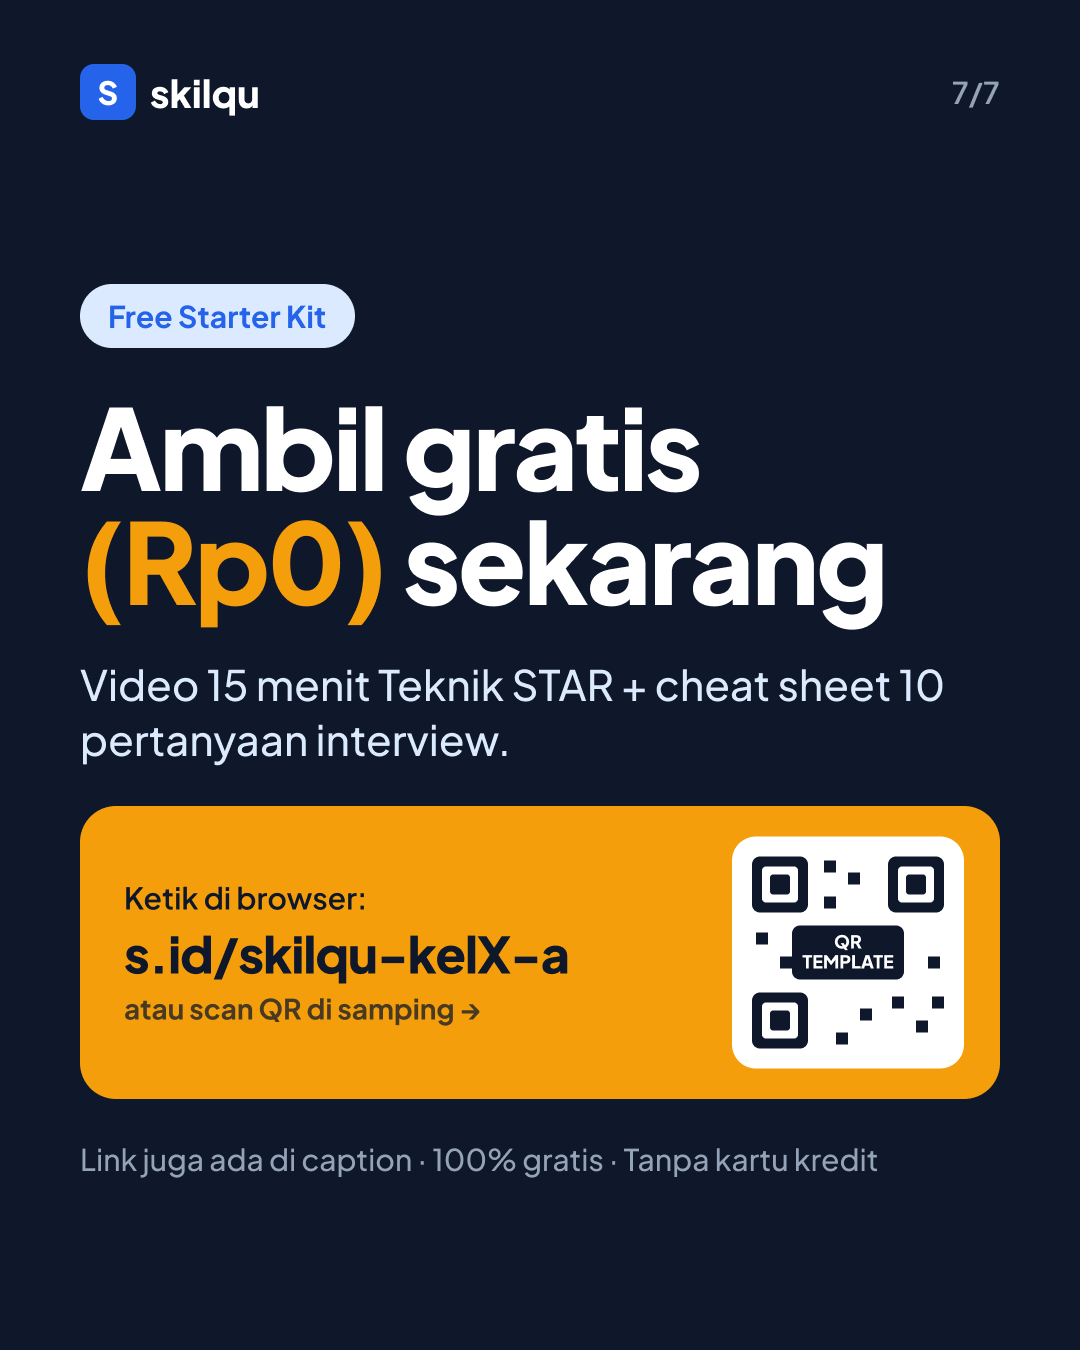
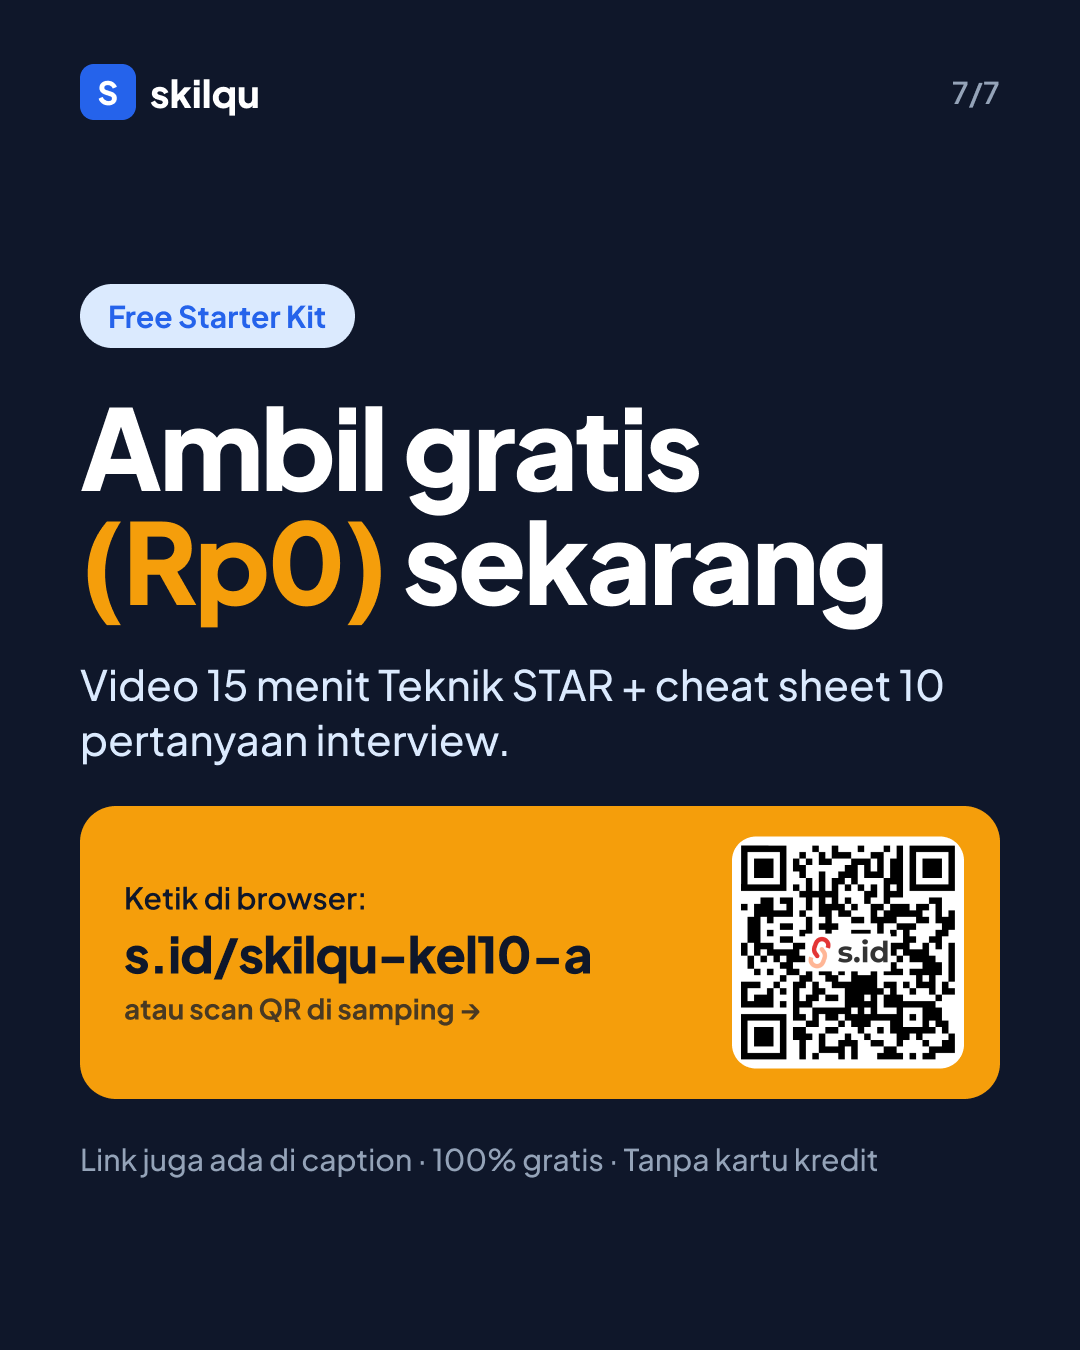
Slide 7: pasang QR s.id kel10 untuk Feed A dan B

Changed region(s): [[0.6722, 0.6222, 0.8861, 0.8089], [0.4278, 0.6844, 0.55, 0.7467]]

diff --git a/Konsep Feed Carousel Modul 3.md b/Konsep Feed Carousel Modul 3.md
@@ -22,8 +22,8 @@ Track C (Interview). 1 carousel, 7 slide, ukuran 1080×1350 (4:5). Dua versi han
 
 | Versi | Tayang | Diamati sampai | Link di postingan |
 |---|---|---|---|
-| A | Rabu, 18 Nov 2026, [19.00] WIB | Jumat, 20 Nov, [19.00] | s.id/skilqu-[kelX]-a |
-| B | Kamis, 19 Nov 2026, [19.00] WIB | Sabtu, 21 Nov, [19.00] | s.id/skilqu-[kelX]-b |
+| A | Rabu, 18 Nov 2026, [19.00] WIB | Jumat, 20 Nov, [19.00] | s.id/skilqu-kel10-a |
+| B | Kamis, 19 Nov 2026, [19.00] WIB | Sabtu, 21 Nov, [19.00] | s.id/skilqu-kel10-b |
 
 Link s.id-nya diarahkan ke:
 - A: `https://skilqu-interview-magang.netlify.app/?utm_source=ig&utm_medium=carousel&utm_content=hook_control_A`
@@ -148,7 +148,7 @@ PNG alternatif ada di `Modul 3 Carousel/Alternatif Cover/`. Kalau cover yang dip
 
 ### Slide 7: CTA
 - Judul: **"Ambil gratis (Rp0) sekarang"**
-- Kotak amber besar: **"Ketik s.id/skilqu-[kelX]-a"** (di versi B: **-b**)
+- Kotak amber besar: **"Ketik s.id/skilqu-kel10-a"** (di versi B: **-b**)
 - Di bawahnya: "Video 15 menit + cheat sheet 10 pertanyaan interview"
 - Baris kecil: "Link juga ada di caption · 100% gratis · Tanpa kartu kredit"
 
@@ -167,11 +167,11 @@ PNG alternatif ada di `Modul 3 Carousel/Alternatif Cover/`. Kalau cover yang dip
 >
 > Lebih ringkas dari tutorial YouTube 2 jam, dan langsung bisa dipakai latihan.
 >
-> Ambil gratis (Rp0): s.id/skilqu-[kelX]-a
+> Ambil gratis (Rp0): s.id/skilqu-kel10-a
 >
 > #interviewmagang #tipsinterview #teknikSTAR #pertanyaaninterview #magang #freshgraduate #carikerja #persiapaninterview
 
-Di versi B, link-nya diganti `s.id/skilqu-[kelX]-b`. Hashtag diambil dari keyword Modul 1 (pertanyaan interview magang, cara menjawab pertanyaan interview, teknik STAR). [Cek ulang dengan hasil riset Modul 1 kelompok.]
+Di versi B, link-nya diganti `s.id/skilqu-kel10-b`. Hashtag diambil dari keyword Modul 1 (pertanyaan interview magang, cara menjawab pertanyaan interview, teknik STAR). [Cek ulang dengan hasil riset Modul 1 kelompok.]
 
 ---
 
